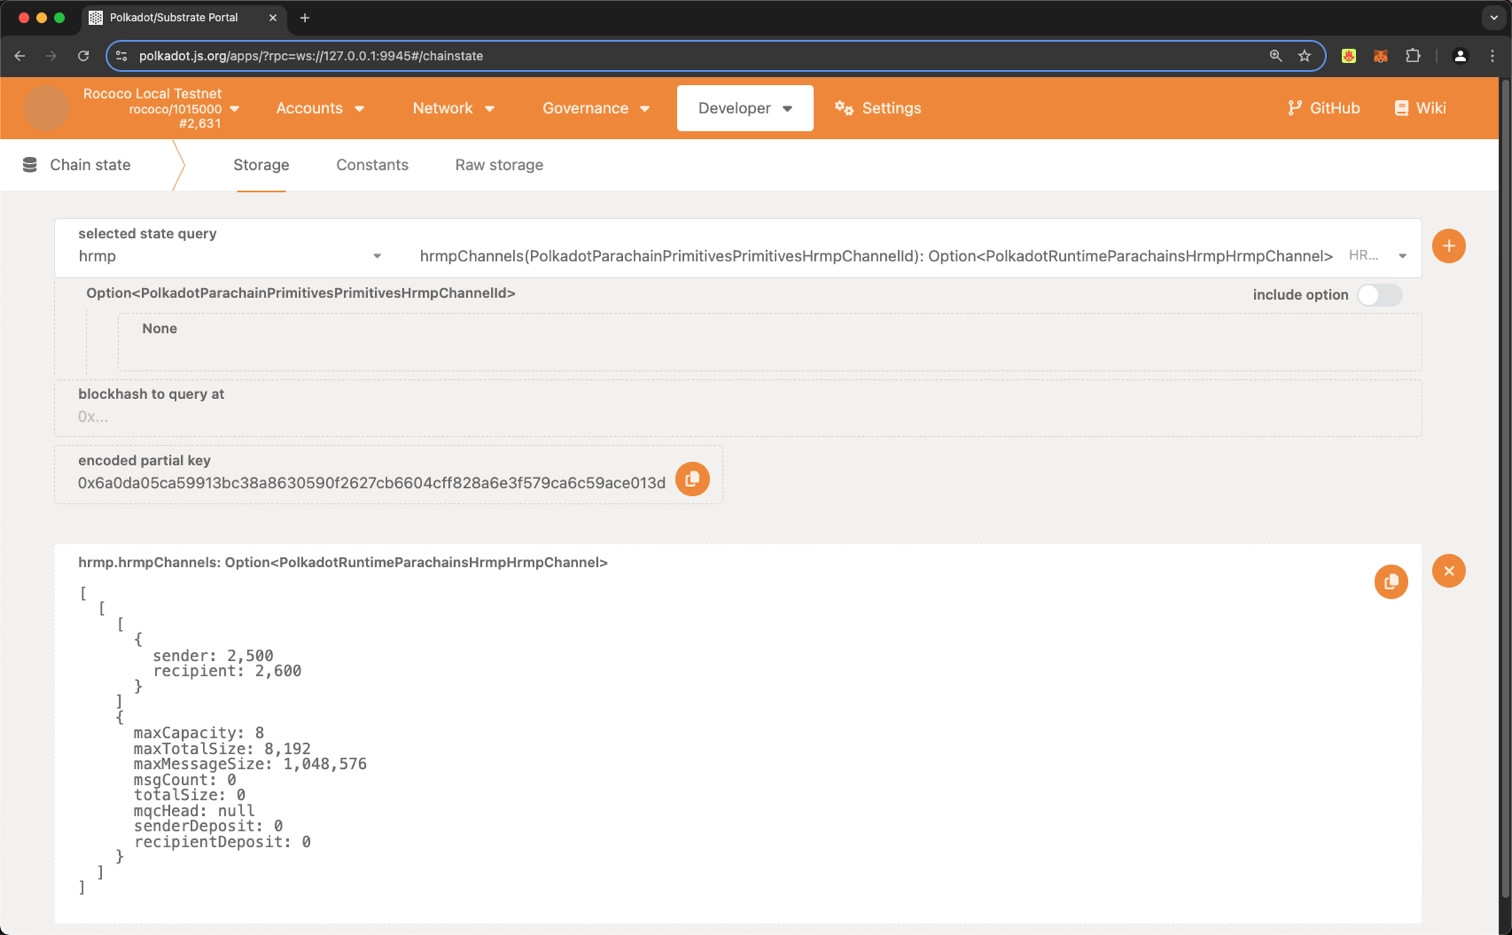
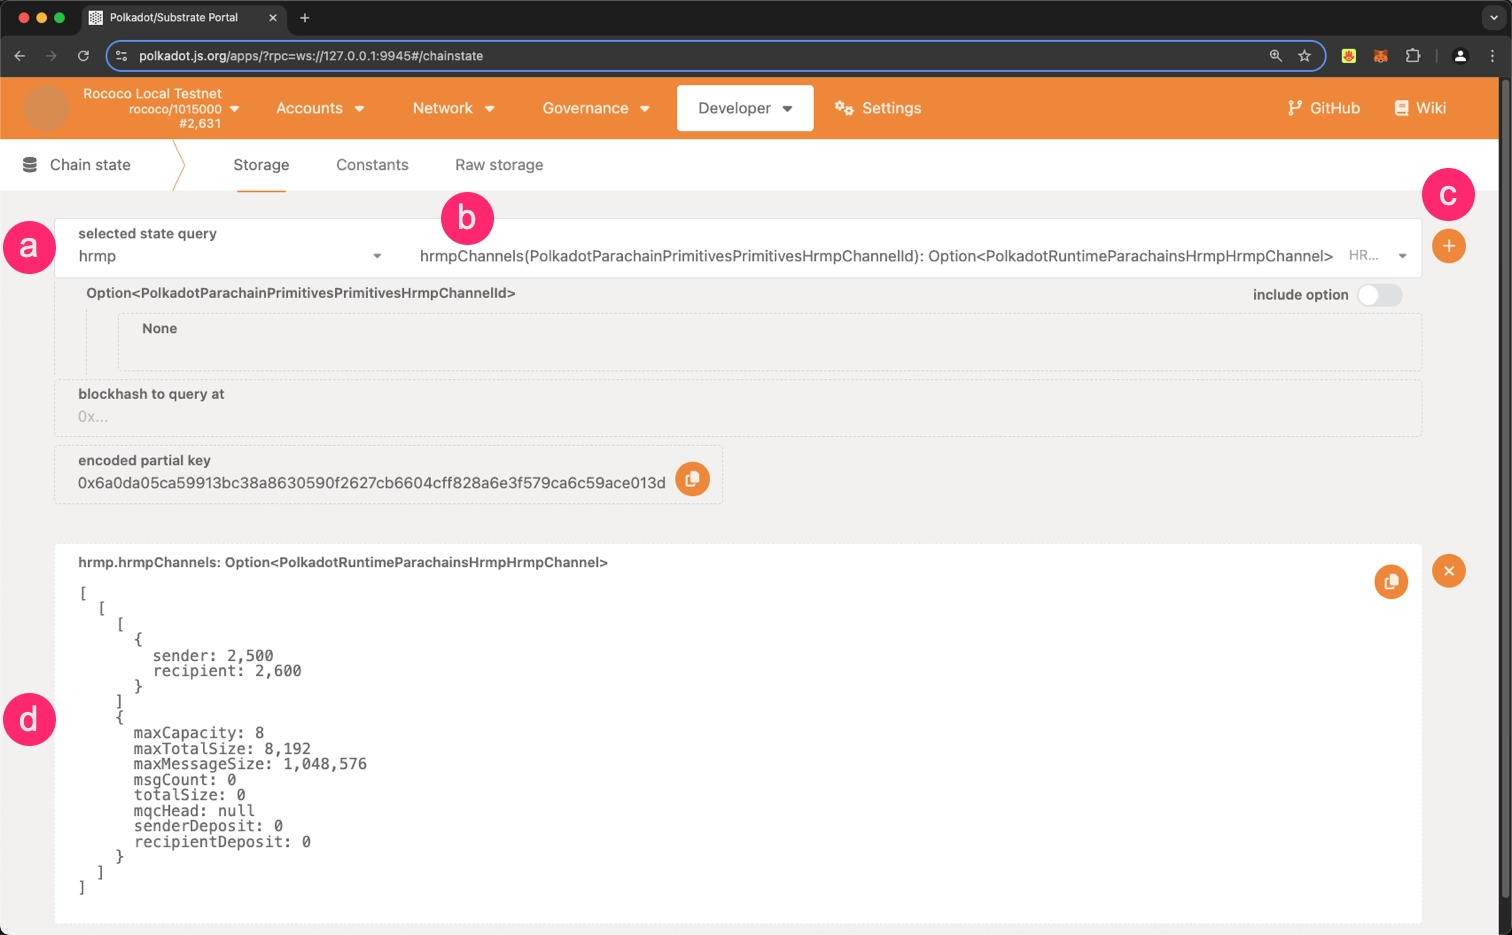
Update last image

diff --git a/docs/build-on-polkadot/xcm/hrmp-channels/overview.md b/docs/build-on-polkadot/xcm/hrmp-channels/overview.md
@@ -207,12 +207,15 @@ To send the XCM message to the relay chain, connect to parachain 2600 in Polkado
 
 After submitting the XCM message to accept the HRMP channel opening, verify that the channel has been set up correctly.
 
-1. Connect to the relay chain using Polkadot.js Apps
-2. Navigate to the **Developer** dropdown and select **Chain state**
-   
+1. Using Polkadot.js Apps, connect to the relay chain and navigate to the **Developer** dropdown, then select the **Chain state** option
+
     ![](/polkadot-ecosystem-docs-draft/images/build-on-polkadot/hrmp-channels/hrmp-channels-11.webp)
 
-3. Under the **hrmp** section, query the **hrmpChannels** storage item
+2. Query the hrmp open channel requests
+    1. Select **hrmp**
+    2. Choose the **hrmpChannels** call
+    3. Click the **+** button to execute the query
+    4. Check the status of the opened channel
 
     ![](/polkadot-ecosystem-docs-draft/images/build-on-polkadot/hrmp-channels/hrmp-channels-10.webp)
 
